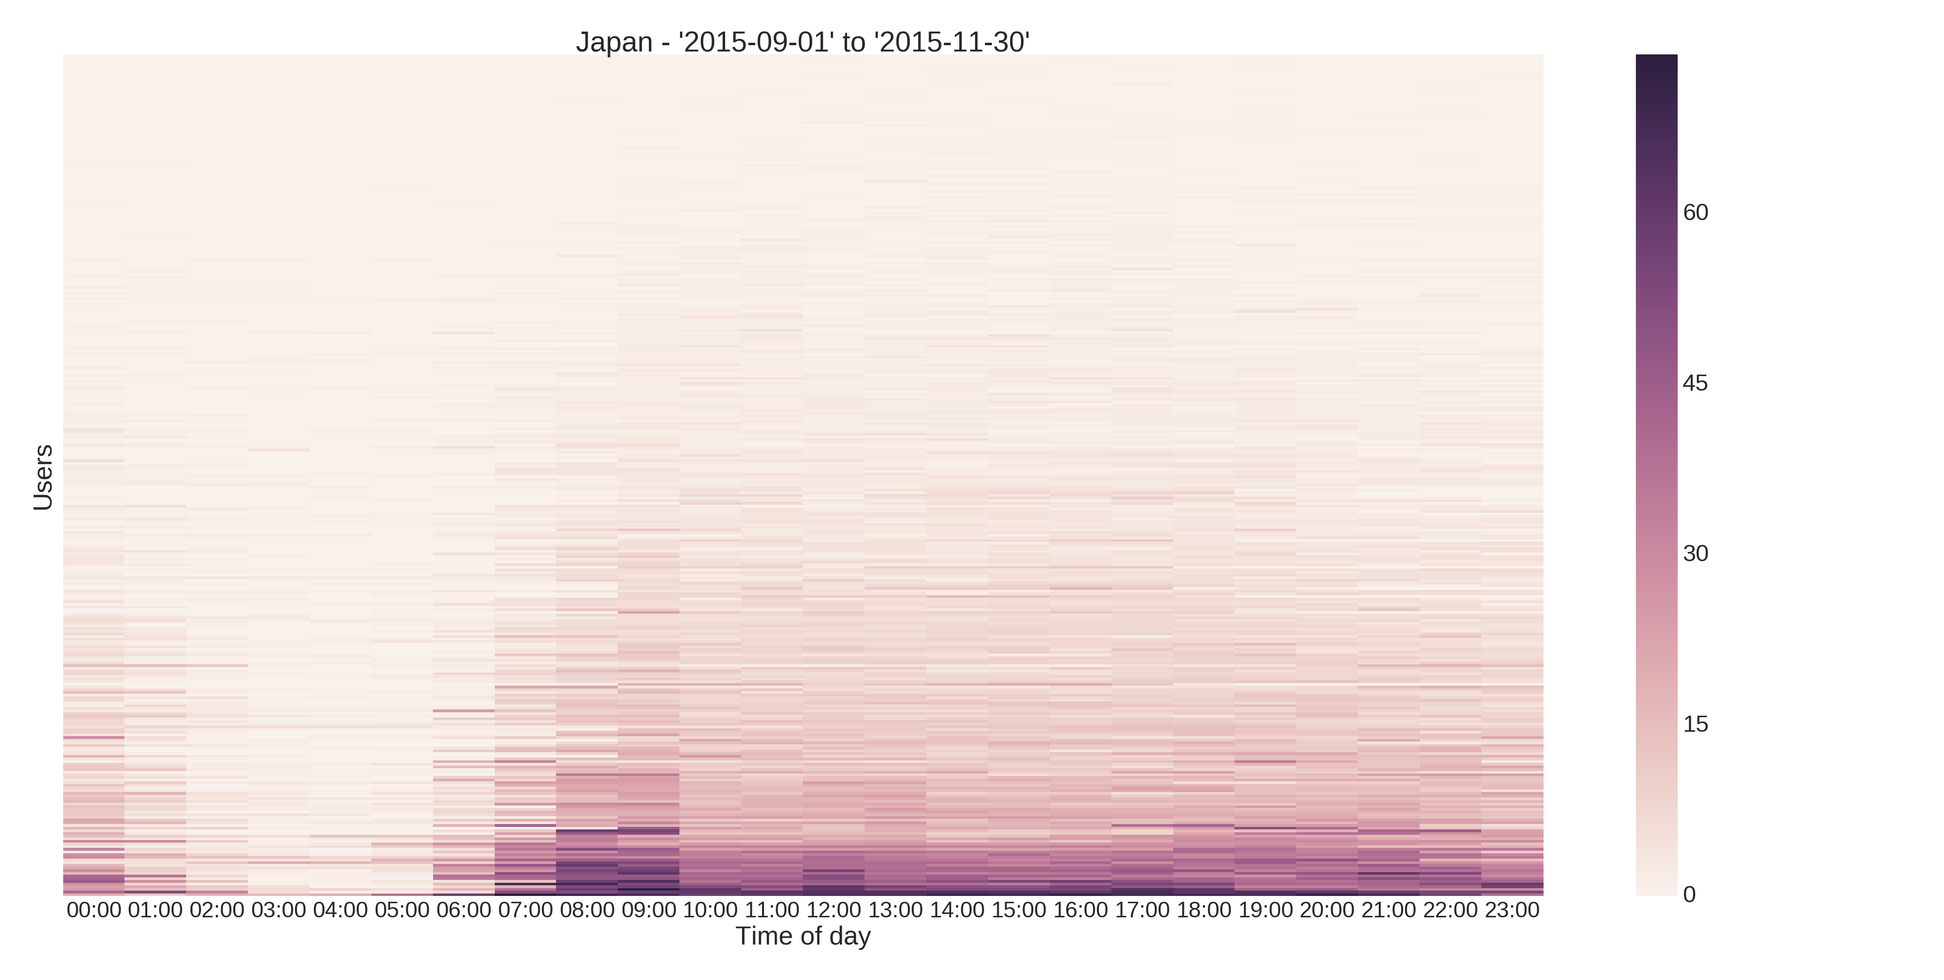
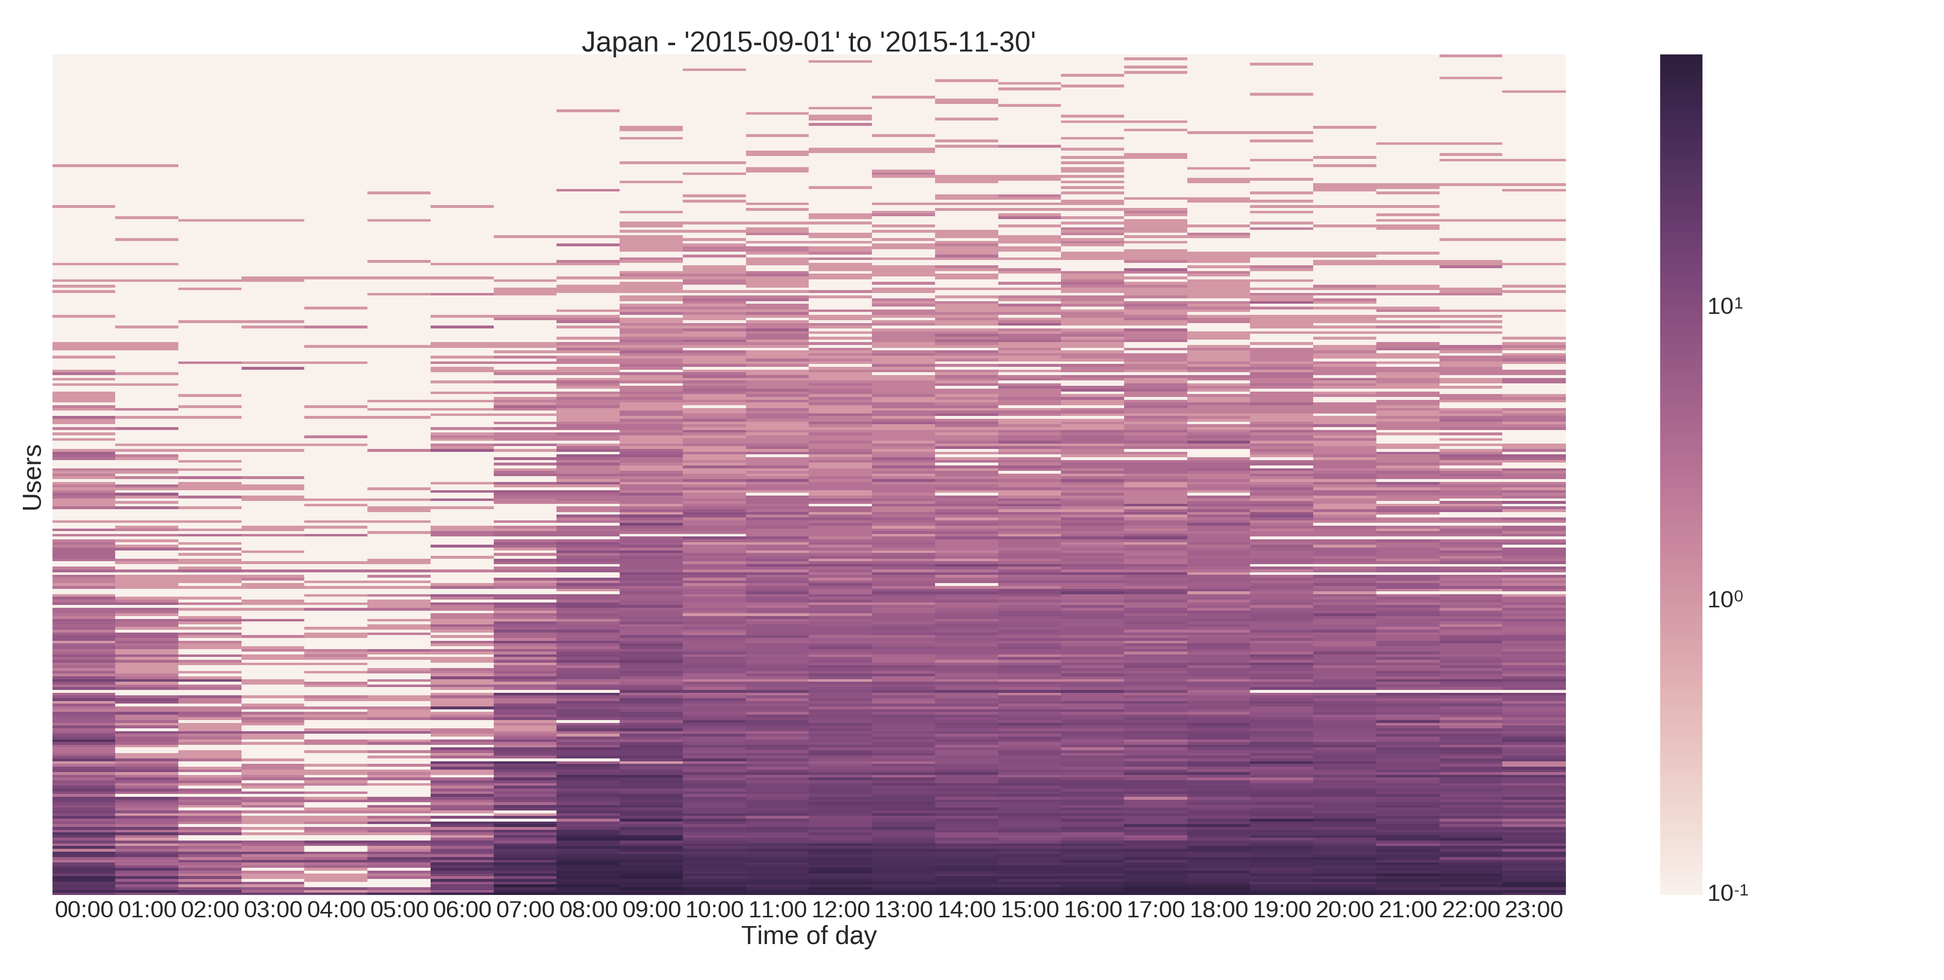
Figures updated

diff --git a/report/dataset.tex b/report/dataset.tex
@@ -211,15 +211,6 @@ Da opdateringerne kommer hver gang brugeren skifter lokation, betyder dette, at 
 Vi vil gerne se om der er et mønster i hvornår opdateringerne kommer, da vi derfra muligvis kan udpege bedre eller dårligere sub-perioder som vi kan tage stilling til. Derfor har vi lavet nogle heat maps. 
 De første heat maps viser hvordan opdateringerne er fordelt over et døgn. Dette er lavet, ved at aggregerer over tidsrummet i det pågældende døgn. Det der bliver aggregeret er, om en brugere har haft mindst én opdatering, i det tidsrum på døgnet (repræsenteret med 0 eller 1), uanset hvilken dag det er.
 
-Figure \ref{fig:agg_heatmap_jap} viser hvordan opdateringerne for hver user (y-aksen), fordeler sig over tidsrummet på en dag, målt over alle tre måneder. Det ses at skalaen går til ca. 70, hvilket betyder at brugeren med flest aggregerede opdateringer i et time-slot (på en time), har ca. 70 opdateringer henover alle tre måneder. Brugerne er sorteret på baggrund af deres samlede aggregerede værdier, men den største nederst på y-aksen. 
-
-Man ser tydeligt, at der er en periode mellem kl. 02:00 og kl. 06:00 hvor de fleste brugere ikke har nogle updates, dette kunne tyde på at de enten slukker eller på anden måde lukker for kommunikationen med omverdenen i det givne tidsrum. Herefter fra kl. 06:00 til 00:00 er der regelmæssig opdateringer, hvorefter det stilner af til kl. 02:00. Hvis vi sammenligner dette med Figure \ref{fig:cumu_loc_time_jap_swe} kan vi se det stemmer meget godt overens. Figure \ref{fig:cumu_loc_time_jap_swe} viser den cumulative location updates henover et døgn i både Japan og Sverige. Her ser vi samme udvikling for Japan som heat mappet indikerer, som beskrevet ovenfor. 
-
-Det ovenstående gælder også for Sverige (Figure \ref{fig:agg_heatmap_swe}), som viser det samme som Japan. Her slukker næsten alle brugere også deres mobiler mellem 02:00 og 06:00
-Der er ikke andre time-slots som skilder sig ud, hverken i Japan eller Sverige. 
-
-Da vi har sorteret brugerne kan vi nemt se, at der er en del brugere som ikke har nogle, eller meget få, opdateringer henover alle tre måneder. Disse bruge kunne vi se bort fra i vores forsøg, da de alligevel ikke bidrager med noget. 
-
 \begin{figure}[H]
     \hspace*{-0.8cm}
     \centering
@@ -227,6 +218,16 @@ Da vi har sorteret brugerne kan vi nemt se, at der er en del brugere som ikke ha
     \caption{Heat map for location updates over the 3 month period in Japan, aggregated over a day with 60 minutes of binsize. Users are sorted by total number of location. Largest is at the bottom}
     \label{fig:agg_heatmap_jap}
 \end{figure}
+Figure \ref{fig:agg_heatmap_jap} viser hvordan opdateringerne for hver user (y-aksen), fordeler sig over tidsrummet på en dag, målt over alle tre måneder. Det ses at skalaen går til ca. 70, hvilket betyder at brugeren med flest aggregerede opdateringer i et time-slot (på en time), har ca. 70 opdateringer henover alle tre måneder. Brugerne er sorteret på baggrund af deres samlede aggregerede værdier, med den største nederst på y-aksen. 
+
+Man ser tydeligt, at der er en periode mellem kl. 02:00 og kl. 06:00 hvor de fleste brugere ikke har nogle updates, dette kunne tyde på at de enten slukker eller på anden måde lukker for kommunikationen med omverdenen i det givne tidsrum. Herefter fra kl. 06:00 til 00:00 er der regelmæssig opdateringer, hvorefter det stilner af til kl. 02:00. Hvis vi sammenligner dette med Figure \ref{fig:cumu_loc_time_jap_swe} kan vi se det stemmer meget godt overens. Figure \ref{fig:cumu_loc_time_jap_swe} viser den aggrgerede location updates henover et døgn i både Japan og Sverige. Her ser vi samme udvikling for Japan som heat mappet indikerer, som beskrevet ovenfor. 
+
+Det ovenstående gælder også for Sverige (Figure \ref{fig:agg_heatmap_swe}), som viser det samme som Japan. Her slukker næsten alle brugere også deres mobiler mellem 02:00 og 06:00
+Der er ikke andre time-slots som skilder sig ud, hverken i Japan eller Sverige. 
+
+Da vi har sorteret brugerne kan vi nemt se, at der er en del brugere som ikke har nogle, eller meget få, opdateringer henover alle tre måneder. Disse bruge kunne vi se bort fra i vores forsøg, da de alligevel ikke bidrager med noget. 
+
+
 \begin{figure}[H]
     \hspace*{-0.8cm}
     \centering
@@ -243,17 +244,12 @@ Da vi har sorteret brugerne kan vi nemt se, at der er en del brugere som ikke ha
     \label{fig:cumu_loc_time_jap_swe}
 \end{figure}
 
-Hvis vi udelukkende kigger på Figure \ref{fig:cumu_loc_time_jap_swe}, kan vi se at det topper i begge lande omkring kl. 08:00 om morgenen. I Sverige topper det desuden også kl. 16:00, hvor det ikke gør det i Japan. Her er det neutral. \\
+Hvis vi udelukkende kigger på Figure \ref{fig:cumu_loc_time_jap_swe}, kan vi se at det topper i begge lande omkring kl. 08:00 om morgenen. I Sverige topper det desuden også kl. 16:00, hvor det ikke gør det i Japan. Her er det neutralt. \\
 Toppen der finder sted kl. 08:00 om morgen, skyldes nok at brugerne er på vej til arbejde og derved får en masse updates. Tilsvarende kan den anden top (i Sverige), være der hvor brugerene er på vej hjem fra arbejde, hvor man derved også får en masse updates. Det bemærkes at Japan ikke har en tilsvarende stigning i locations updates ved eftermiddagen, men dog har en lille stigning ved 19:00 og højere værdier end Sverige fra 21:00-23:00.\\
 
-Begge disse scenarier tegner ikke godt for vores mål, da det giver sig selv at der skal være nogle data for at finde co-occurences. 
-På baggrund af quantiles og CDF, kunne det tyde på at data fra Sverige vil være mere brugbart end Japan. 
+Figure \ref{fig:agg_heatmap_jap}, \ref{fig:agg_heatmap_swe} og \ref{fig:cumu_loc_time_jap_swe} fortæller os hvilket tidsrum på dagen, som kan være give mere udbytte end andre. F.eks. at vi skal være opmærksomme på tidsrummet mellem kl. 01:00 og 06:00, da mange har meget få opdateringer i dette tidsrum. Derfor er det sandsynligt, at vi skal undgå dette tidsrum. 
 
-Når vi nu ved, at største delen af brugerne i begge lande har få opdateringer, vil vi gerne vide hvodan disse opdateringer er fordelt henover perioden. Det er interssant for os at vide, om opdateringerne er ligeligt fordelt på dagene eller om de klumber sig sammen. Det er interessant, da det kan gøre en forskel med hvad vi bruger til vores modeller. 
-
-Vi har valgt at visualisere dette, ved brug af Heatmaps. 
-
-\newpage
+Hvad Figurerne ikke fortæller os er, om der er nogle dage i de tre måneder der er bedre end andre. Dette vil vi gerne finde ud af, for at se om der er nogle dage som vi med fordel kunne bruge i stedet for alle dagene. Herudover kan vi måske se et mønster i dagene. Man kunne forestille sige, at der fredag og/eller lørdag er flere opdateringer end andre dage, forddi folk går ud i byen og dermed er aktive. 
 
 
 \begin{figure}[H]
@@ -263,6 +259,20 @@ Vi har valgt at visualisere dette, ved brug af Heatmaps.
     \caption{Heat map for mean location updates over the 3 month period in Japan}
     \label{fig:heatmap_jap}
 \end{figure}
+
+Figure \ref{fig:heatmap_jap} viser hvordan lokations opdateringerne per bruger (afrundet til heltal) i Japan er fordelt over hver dag i hver af de tre måneder. Vi kan f.eks. se, at der i Japan er gennemsnitligt 16 opdateringer per bruger om fredagen i uge 2 i september. 
+
+Igen kan man se at der generelt er flere opdateringer i september end i de andre to måneder. Både oktober og november ligner hinanden, bortset fra et par dage hvor november har et par højere værdier end noglre andre dage i oktober. 
+
+I mange tilfælde kan man se at fredage og/eller lørdage har højere værdi end de andre dage i den pågælende måned.
+
+
+ %Vi kan se at for både Japan og Sverige gælder, at der generelt er mere aktivitet i september, end i de andre måneder. Dette underbygger tendensen fra Figure \ref{fig:mean_loc_updates_sep-nov}, hvor vi kunne se en nedadgående tendens fra september til november. I Japan er october og november på nogenlunde samme niveau, hvor man i Sverige tyderligere kan se en ydeligere reducering af antal opdateringer. 
+
+
+
+%\newpage
+
 \begin{figure}[H]
     \hspace*{-1.5cm}
     \centering
@@ -271,34 +281,45 @@ Vi har valgt at visualisere dette, ved brug af Heatmaps.
     \label{fig:heatmap_swe}
 \end{figure}
 
-
- Figure \ref{fig:heatmap_jap} viser hvordan lokations opdateringerne per bruger (afrundet til heltal) i Japan er fordelt over hver dag i hver af de tre måneder. Figure \ref{fig:heatmap_swe} viser det samme, bare for Sverige. 
- Vi kan f.eks. se, at der i Japan er gennemsnitligt 18 opdateringer per bruger om fredagen i uge 2 i september, hvor der samme dag i Sverige er 29 opdateringer. 
-
- Vi kan se at for både Japan og Sverige gælder, at der generelt er mere aktivitet i september, end i de andre måneder. Dette underbygger tendensen fra Figure \ref{fig:mean_loc_updates_sep-nov}, hvor vi kunne se en nedadgående tendens fra september til november. I Japan er october og november på nogenlunde samme niveau, hvor man i Sverige tyderligere kan se en ydeligere reducering af antal opdateringer. 
-
+Figure \ref{fig:heatmap_swe} viser hvordan lokations opdateringerne per bruger (afrundet til heltal) i Sverige, er fordelt over hver dag i hver af de tre måneder. Som i Japan er der generelt flere opdateringer i september end i de andre to måneder. I Sverige er denne tendens dog mere tydelig end Japan. Ligesom i Japan, har vi set denne tendens i Figure 
+\ref{fig:mean_loc_updates_sep-nov}, så dette er ikke overraskende. 
  
-\newpage
+Også her, ligesom Japan, ligger værdierne for fredage og/eller lørdage en anelse højere end de andre dage. Disse værdier er dog ikke så meget højere så det er af betydning, hvilket også gælder for Japan. 
+
+På de to figurer ovenfor, kan vi få en fornemmelse af gennemsnitlig updates for hver dag. Vi kan ikke få en fornemmelse hvordan dette ser ud for hver bruger. Derfor har vi lavet nedenstående figurer. 
 
 \begin{figure}[H]
     \hspace*{-1.5cm}
     \centering
     \includegraphics[scale=0.16]{location_updates_japan_combined_log.png}
-    \caption{Heat map for mean location updates over the 3 month period in Japan}
+    \caption{Heat map for mean location updates over the 3 month period in Japan. x-axis is days and y-axis is users. The scale is logarithmic}
+    %\vspace*{-3.5cm}
+    \vspace{-12pt}
     \label{fig:heatmap_japan_combined}
 \end{figure}
-\begin{figure}[H]
-    \hspace*{-1.5cm}
-    \centering
-    \includegraphics[scale=0.16]{location_updates_sweden_combined_log.png}
-    \caption{Heat map for mean location updates over the 3 month period in Sweden}
-    \label{fig:heatmap_sweden_combined}
-\end{figure}
+Figure \ref{fig:heatmap_japan_combined} viser antal updates for hver bruger, for hver dag i hver af de tre måneder. Hver række i hver af de tre heatmaps (ét for hver måned), repræsenterer en bruger. Der er altså \numberUsersJapan{} antal rækker i hvert heatmap \textcolor{red}{nej de er sorteret fra. Skal de det?}. Hvert heatmap er sorteret så brugeren med updates i flest dage, ligger nederst. Det gør at brugerene ikke nødvendigvis er repræsenteret i samme række over alle tre heatmaps.
+Ved at plotte dage og månederne på denne måde, kan det være nemmere at sammenligne dagene for hver måned med hinanden. 
+
+Vi kan se der er relativt få brugere som har updates i alle dage i en måned. Dette alene er bekymrende og tegner ikke godt for vores projekt, og når vi i dette plot ikke kan være sikker på det er samme bruger der har updates i alle dage for alle tre måneder, så er det endnu mere bekymrende. 
+
+Igen virker det som at september har flere brugere, som har opdateringer i relativt mange dage, i forhold til de andre måneder.
+
+Hvis vi kigger på oktober, kan vi se nogle par af dage som danner lyse lodrette striber, hvilket betyder lavere antal updates. Disse foregår d. 3 og 4, 10 og 11, 17 og 18 og til sidst 24 og 25. Disse par dukker op med en uges interval, hvor d. 3 er en lørdag og d. 4 er en søndag. Dvs. de andre par også er lørdage og søndage. Dette mønster gentager sig i november, hvor man rigtig kan se det fra d. 7 og 8. September er ikke så tydelig, men det er der. Dette er meget interessant, da det kan indikere at lørdage og søndage ikke er så gode at gøre brug af. 
+
+
 
 \begin{figure}[H]
     \hspace*{-1.5cm}
     \centering
-    \includegraphics[scale=0.25]{users_by_criteria.png}
+    \includegraphics[scale=0.16]{location_updates_sweden_combined_log.png}
+    \caption{Heat map for mean location updates over the 3 month period in Sweden. x-axis is days and y-axis is users. The scale is logarithmic}
+    \label{fig:heatmap_sweden_combined}
+\end{figure}
+Figure \ref{fig:heatmap_sweden_combined} viser det samme blot for Sverige. Igen kan vi se i alle tre måneder, at lørdage og søndage skiller sig ud af mængden. 
+\begin{figure}[H]
+    \hspace*{-1.5cm}
+    \centering
+    \includegraphics[scale=0.16]{users_by_criteria.png}
     \caption{}
     \label{fig:users_by_criteria}
 \end{figure}

diff --git a/tools/scripts/records_analysis.py b/tools/scripts/records_analysis.py
@@ -475,7 +475,7 @@ def heat_map(data, mask, xticks, yticks, title="", xlabels=[], ylabels=[], anno=
         #sns.set(font_scale=5.5)
         if not yticks:
             yticks = [[" "]*data.shape[1]]
-        if mask.shape[0] > 0:
+        if isinstance(mask, np.ndarray) and mask.shape[0] > 0:
             if log:
                 data = np.array(data, dtype=np.float)
                 np.place(data, data == 0, [0.1])
@@ -910,6 +910,24 @@ def fetch_data(countries=["Japan", "Sweden"]):
     return data, df, total_count, countries
 
 
+def accuracy_summary():
+    d = DatabaseHelper.DatabaseHelper()
+    data = {'Accuracy': []}
+    query = """SELECT accuracy FROM location"""
+    result = d.run_specific_query(query)
+    [data['Accuracy'].append(r[0]) for r in result]
+    df = pd.DataFrame(data)
+    #print(df)
+    q = df.quantile([0.0, 0.25, 0.5, 0.75, 1.0])
+    mean = df.mean()
+    std = df.std()
+    print(q)
+    print("Mean = {}".format(mean))
+    print("Std = {}".format(std))
+    #print("Japan - mean: {}".format(means['Japan']))
+    #print("Sweden - mean: {}".format(means['Sweden']))
+
+
 def location_updates_at_hq_or_not():
     d = DatabaseHelper.DatabaseHelper()
     filter_places_dict = {"Sweden": [[(13.2262862, 55.718211), 1000],
@@ -1026,9 +1044,9 @@ def time_plot():
         temp = zip(x, y)
         temp2 = list(zip(*sorted(temp)))
         data.append((list(temp2[0]), list(temp2[1])))
-    title = "Cummulative location updates by time of day"
+    title = "Aggregate location updates by time of day"
     xlabel = "Time of day in hours"
-    ylabel = "Cummulative location updates frequency"
+    ylabel = "Location updates frequency"
     legend_labels = countries
     ax = plt.subplot(111, xlabel=xlabel, ylabel=ylabel, title=title)
     plt.plot(data[0][0], data[0][1], label=legend_labels[0], linewidth=6.0)
@@ -1036,7 +1054,7 @@ def time_plot():
     #xlim_max = max([max(data[0][0]), max(data[1][0])])
     #plt.ylim(0, 1)
     plt.xticks(data[0][0])
-    ax.yaxis.set_major_formatter(tck.FormatStrFormatter('%.1e'))
+    #ax.yaxis.set_major_formatter(tck.FormatStrFormatter('%.1e'))
     plt.xlim(0, 24)
     plt.title(title)
     plt.legend(prop={'size': 40})
@@ -1053,23 +1071,24 @@ def adjust_hour(hour, country):
     
 
 def aggregated_heatmap(sorter_efter_sum=False):
-    country = "Japan"
+    countries = ["Japan", "Sweden"]
     start = '2015-09-01'
     end = '2015-11-30'
     bin_size = 60 #minutes
-    data, users = get_data_for_heat_map_per_user_aggregated(country, start, end, bin_size)
-    lst = generate_time_list(parser.parse(start+' 00:00:00+00:00'),
-                             parser.parse(start+' 00:00:00+00:00') +
-                             timedelta(days=1), bin_size)
-    xticks = [row.strftime("%H:%M") for row in lst]
-    print(xticks)
-    yticks = list(range(data.shape[0]))
-    if sorter_efter_sum:
-        s = np.sum(data, axis=1)
-        data = np.take(data, s.argsort(), axis=0)
-    heat_map(data, [], [xticks], [],
-             title=country + " - '" + start + "' to '" + end + "'",
-             xlabels="Time of day", ylabels=[], anno=False, multiple=False, max_val=0, log=True)
+    for country in countries:
+        data, users = get_data_for_heat_map_per_user_aggregated(country, start, end, bin_size)
+        lst = generate_time_list(parser.parse(start+' 00:00:00+00:00'),
+                                 parser.parse(start+' 00:00:00+00:00') +
+                                 timedelta(days=1), bin_size)
+        xticks = [row.strftime("%H:%M") for row in lst]
+        print(xticks)
+        yticks = list(range(data.shape[0]))
+        if sorter_efter_sum:
+            s = np.sum(data, axis=1)
+            data = np.take(data, s.argsort(), axis=0)
+        heat_map(data, [], [xticks], [],
+                 title=country + " - '" + start + "' to '" + end + "'",
+                 xlabels="Time of day", ylabels=[], anno=False, multiple=False, max_val=0, log=True)
 
 
 if __name__ == '__main__':
@@ -1077,9 +1096,12 @@ if __name__ == '__main__':
 
     #show_all_month_for_contries()
     #location_updates_at_hq_or_not()
+    #
+    #accuracy_summary()
     countries = ["Japan", "Sweden"]
     show_all_month_same_scale(countries, values_loc_updates=True,
                               same_scale_over_countries=True,
+                              sorter_non_location_user_fra=False,
                               sorter_efter_sum=True, log=True,
                               mask=True, mask_value=0, show_user_ticks=False, multiple=True)
 

diff --git a/tools/scripts/find_user_criteria_for_dataset.py b/tools/scripts/find_user_criteria_for_dataset.py
@@ -52,8 +52,8 @@ def compute_cdf_in_three_periods(country):
     return [plot(x) for x in np.arange(0, 1, 0.01)]
 
 
-sweden, = plt.plot(np.arange(0, 1, 0.01), compute_cdf_in_three_periods("Sweden"), label="Sweden - All months", color='#990033')
-japan, = plt.plot(np.arange(0, 1, 0.01), compute_cdf_in_three_periods("Japan"), label="Japan - All months", color='#333399')
+sweden, = plt.plot(np.arange(0, 1, 0.01), compute_cdf_in_three_periods("Sweden"), label="Sweden - All months", color='#990033', linewidth=4.0)
+japan, = plt.plot(np.arange(0, 1, 0.01), compute_cdf_in_three_periods("Japan"), label="Japan - All months", color='#333399', linewidth=4.0)
 
 first_period_datetime_min = "2015-09-01 00:00:00+00:00"
 first_period_time_bin_min = db.calculate_time_bins(first_period_datetime_min)[0]
@@ -68,8 +68,8 @@ third_period_time_bin_min = db.calculate_time_bins(third_period_datetime_min)[0]
 third_period_datetime_max = "2015-09-30 23:59:59+00:00"
 third_period_time_bin_max = db.calculate_time_bins(third_period_datetime_max)[0]
 
-sweden_sept, = plt.plot(np.arange(0, 1, 0.01), compute_cdf_in_three_periods("Sweden"), label="Sweden - september", color='#990033', linestyle='--')
-japan_sept, = plt.plot(np.arange(0, 1, 0.01), compute_cdf_in_three_periods("Japan"), label="Japan - september", color='#333399', linestyle='--')
+sweden_sept, = plt.plot(np.arange(0, 1, 0.01), compute_cdf_in_three_periods("Sweden"), label="Sweden - september", color='#990033', linestyle='--', linewidth=4.0, markersize=20)
+japan_sept, = plt.plot(np.arange(0, 1, 0.01), compute_cdf_in_three_periods("Japan"), label="Japan - september", color='#333399', linestyle='--', linewidth=4.0, markersize=20)
 
 first_period_datetime_min = "2015-10-01 00:00:00+00:00"
 first_period_time_bin_min = db.calculate_time_bins(first_period_datetime_min)[0]
@@ -85,8 +85,8 @@ third_period_datetime_max = "2015-10-31 23:59:59+00:00"
 third_period_time_bin_max = db.calculate_time_bins(third_period_datetime_max)[0]
 
 
-sweden_oct, = plt.plot(np.arange(0, 1, 0.01), compute_cdf_in_three_periods("Sweden"), label="Sweden - october", color='#990033', linestyle="None", marker="x")
-japan_oct, = plt.plot(np.arange(0, 1, 0.01), compute_cdf_in_three_periods("Japan"), label="Japan - october", color='#333399', linestyle="None", marker="x")
+sweden_oct, = plt.plot(np.arange(0, 1, 0.01), compute_cdf_in_three_periods("Sweden"), label="Sweden - october", color='#990033', linestyle="None", marker="x", markersize=20)
+japan_oct, = plt.plot(np.arange(0, 1, 0.01), compute_cdf_in_three_periods("Japan"), label="Japan - october", color='#333399', linestyle="None", marker="x", markersize=20)
 
 first_period_datetime_min = "2015-11-01 00:00:00+00:00"
 first_period_time_bin_min = db.calculate_time_bins(first_period_datetime_min)[0]
@@ -102,18 +102,20 @@ third_period_datetime_max = "2015-11-30 23:59:59+00:00"
 third_period_time_bin_max = db.calculate_time_bins(third_period_datetime_max)[0]
 
 
-sweden_nov, = plt.plot(np.arange(0, 1, 0.01), compute_cdf_in_three_periods("Sweden"), label="Sweden - november", color='#990033', linestyle="None", marker=".")
-japan_nov, = plt.plot(np.arange(0, 1, 0.01), compute_cdf_in_three_periods("Japan"), label="Japan - november", color='#333399', linestyle="None", marker=".")
+sweden_nov, = plt.plot(np.arange(0, 1, 0.01), compute_cdf_in_three_periods("Sweden"), label="Sweden - november", color='#990033', linestyle="None", marker=".", markersize=20)
+japan_nov, = plt.plot(np.arange(0, 1, 0.01), compute_cdf_in_three_periods("Japan"), label="Japan - november", color='#333399', linestyle="None", marker=".", markersize=20)
 
 
-plt.legend(handles=[sweden, japan, sweden_sept, japan_sept, sweden_oct, japan_oct, sweden_nov, japan_nov], prop={'size': 20})
+plt.legend(handles=[sweden, japan, sweden_sept, japan_sept, sweden_oct, japan_oct, sweden_nov, japan_nov], prop={'size': 30})
 plt.ylabel("Number of users")
 plt.xlabel("Percentage of total timebins")
 plt.title("Plot of users with unique timebins in all three months")
-plt.tick_params(labelsize=15)
-[item.set_fontsize(30) for item in [plt.gca().yaxis.label, plt.gca().xaxis.label]]
+plt.tick_params(labelsize=20)
+[item.set_fontsize(45) for item in [plt.gca().yaxis.label, plt.gca().xaxis.label]]
 plt.gca().title.set_fontsize(48)
-[item.set_fontsize(25) for item in plt.gca().get_xticklabels() + plt.gca().get_yticklabels()]
+
+[item.set_fontsize(33) for item in plt.gca().get_xticklabels() + plt.gca().get_yticklabels()]
+
 plt.show()
 
 user_locations_dict = {}
